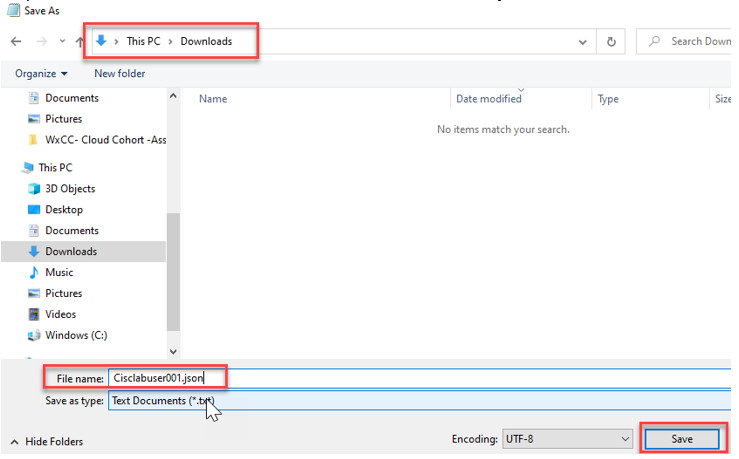
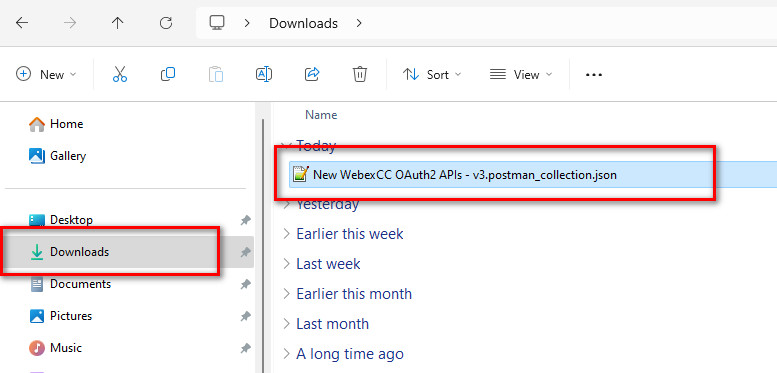
yabondar: 2024-02-24 10:51:39

diff --git a/_pages/Advanced.md b/_pages/Advanced.md
@@ -385,7 +385,7 @@ And verify that you can see this new address book created like this example:
 
 ![API43](https://webexcc-sa.github.io/partner-summit/assets/images/API/API43.jpg)
 
-Congratulations! You have run a simple API towards Webex CC and created an address book without logging into the portal.
+**Congratulations! You have run a simple API towards Webex CC and created an address book without logging into the portal.**
 
 **Step 10.** Switch back to your Postman browser tab. Before sending the API request to create an address book, we need to create 3 environment variables: **org_id, addressBookId** and **datacenter**. This is a required parameter to create an address book. On Postman, select **Environments** and then **Create Environment**.
 
@@ -465,7 +465,7 @@ You see the new collection and API request added.
 ![API60](https://webexcc-sa.github.io/partner-summit/assets/images/API/API60.jpg)
 
 
-**Step 23.** You can also list a specific address book. Use the same GET API and just add he address book id that you have previously copied in notepad and click Send.
+**Step 23.** You can also list a specific address book. Use the same GET API and just add the address book id that you have previously copied into notepad and click Send.
 
 for example: https://api.wxcc-{{datacenter}}.cisco.com/organization/{{orgid}}/address-book/8fd95b96-556d-49be-94b8-fabc1237054c
 
@@ -482,13 +482,64 @@ You see only the address book with that id.
 You see 204 No Content, which indicates that the address book was deleted but there is no content in the response body, which is expected.
 
 ![API64](https://webexcc-sa.github.io/partner-summit/assets/images/API/API64.jpg)
+
 **Step 25.** Execute the GET API for the specific address book, one more time. You see 404 Not Found since the address book no longer exist.
 
 ![API65](https://webexcc-sa.github.io/partner-summit/assets/images/API/API65.jpg)
 
 
+## Lab 4 – Tokens and Collections Importing
 
-### Task 3. Postman - WxCC Tasks Management vias APIs (Optional)
+### Objectives
+
+Access tokens tend to expire after 8-12 hours, while refresh tokens tend to expire in days. This lab demonstrates how to how to configure refresh token in your postman. Also Cisco provides you with preconfigured APIs that can be imported from the WxCC Developers Portal. 
+
+
+### Task 1. Import Collection APIs from Cisco Documentation
+
+You can import APIs collection from another Postman application or from any other exported file.
+
+Cisco TAC has created a document explaining WxCC API functionality and where you can download a set of APIs collection and then import it in your postman section.
+
+**Step 1.** Open Chrome web browser and navigate to this document:
+
+[https://www.cisco.com/c/en/us/support/docs/contact-center/webex-contact-center/218418-](https://www.cisco.com/c/en/us/support/docs/contact-center/webex-contact-center/218418-configure-webex-contact-center-apis-with.html) [configure-webex-contact-center-apis-with.html](https://www.cisco.com/c/en/us/support/docs/contact-center/webex-contact-center/218418-configure-webex-contact-center-apis-with.html)
+
+![API90](https://webexcc-sa.github.io/partner-summit/assets/images/API/API90.jpg)
+
+**Step 2.** Scroll down to step 5 in the document and click on the Sample Postman APIs link.
+![API91](https://webexcc-sa.github.io/partner-summit/assets/images/API/API91.jpg)
+
+**Step 3.** On the new GitHub window, select New WebexCC OAuth2 APIs…
+![API92](https://webexcc-sa.github.io/partner-summit/assets/images/API/API92.jpg)
+
+**Step 4.** Select the icon to copy the API samples and past it to a notepad text (CTRL -V).
+![API93](https://webexcc-sa.github.io/partner-summit/assets/images/API/API93.jpg)
+
+![API94](https://webexcc-sa.github.io/partner-summit/assets/images/API/API94.jpg)
+
+**Step 5.** Save the file in the Downloads folder. By Default the name of the file is **New WebexCC OAuth2 APIs - v3.postman_collection.json**
+![API95](https://webexcc-sa.github.io/partner-summit/assets/images/API/API95.jpg)
+
+**Step 6.** On Postman, select Import.
+![API96](https://webexcc-sa.github.io/partner-summit/assets/images/API/API96.jpg)
+
+**Step 7.** On the import window, select files from the Drop section.
+![API97](https://webexcc-sa.github.io/partner-summit/assets/images/API/API97.jpg)
+
+**Step 8.** Navigate to the Downloads folder and click Open.
+![API98](https://webexcc-sa.github.io/partner-summit/assets/images/API/API98.jpg)
+
+**Step 9.** You will see a new collection created with all WxCC APIs.
+![API99](https://webexcc-sa.github.io/partner-summit/assets/images/API/API99.jpg)
+
+
+### Task 2. Getting Started with OAuth2 & Postman
+
+ Step 1. In Postman, in your Workspace, click on your new uploaded collection that you imported in previous Task. 
+ ![API99](https://webexcc-sa.github.io/partner-summit/assets/images/API/API99.jpg)
+# LAB 5 - Tasks, Queues, Activities and Search API (Optional)
+### Task 1. Postman - WxCC Tasks Management vias APIs
 
 The Task resource represents a request or demand for work from agents. Concretely, a **telephony** Task is an incoming call. For chat, a Task is a chat session. For email, a Task is an email chain. This API returns a list of Tasks (open or closed) within a date range. The data range is provided in epoch time format.
 
@@ -535,7 +586,7 @@ Since the token was added in previous steps, you will see the token already ther
 ![API73](https://webexcc-sa.github.io/partner-summit/assets/images/API/API73.jpg)
 
 
-### Task 4. Postman - WxCC Queue Statistics (Optional)
+### Task 2. Postman - WxCC Queue Statistics (Optional)
 
 The Queue resource is the waiting line which holds Tasks from the time they are created, to the time they are either assigned to an Agent or abandoned by the customer. A Queue is tied to a certain channel type e.g., email, chat, or telephony, and will be summarized by number and time statistics for how Tasks pass through. Queue statistics show only for 24 hours and use the epoch time format.
 
@@ -589,7 +640,7 @@ Since the token was added in previous steps, you will see the token already exis
 **Step 5.** Save this API in the WxCC APIs collection. Select Save As, then add the name of the request (List Queues statistics) and click save.
 ![API81](https://webexcc-sa.github.io/partner-summit/assets/images/API/API81.jpg)
 
-### Task 5. Postman - WxCC Agent Activities
+### Task 3. Postman - WxCC Agent Activities
 
 
 The Agent activities API allows you to retrieve agent activities. Sorted by start time ascending. The API is **/v1/agents/activities.**
@@ -641,51 +692,7 @@ Since the token was added in previous steps, you will see the token already ther
 
 ![API89](https://webexcc-sa.github.io/partner-summit/assets/images/API/API89.jpg)
 
-
-
-## Lab 4 – Import WxCC APIs to Postman
-
-### Objectives
-
-This lab demonstrates importing existing APIs from the WxCC Developers Portal or ones created by a third party or Cisco TAC.
-
-### Task 1. Import Collection APIs from Cisco Documentation
-
-You can import APIs collection from another Postman application or from any other exported file.
-
-Cisco TAC has created a document explaining WxCC API functionality and where you can download a set of APIs collection and then import it in your postman section.
-
-**Step 1.** Open Chrome web browser and navigate to this document:
-
-[https://www.cisco.com/c/en/us/support/docs/contact-center/webex-contact-center/218418-](https://www.cisco.com/c/en/us/support/docs/contact-center/webex-contact-center/218418-configure-webex-contact-center-apis-with.html) [configure-webex-contact-center-apis-with.html](https://www.cisco.com/c/en/us/support/docs/contact-center/webex-contact-center/218418-configure-webex-contact-center-apis-with.html)
-
-![API90](https://webexcc-sa.github.io/partner-summit/assets/images/API/API90.jpg)
-
-**Step 2.** Scroll down to step 5 in the document and click on the Sample Postman APIs link.
-![API91](https://webexcc-sa.github.io/partner-summit/assets/images/API/API91.jpg)
-
-**Step 3.** On the new GitHub window, select New WebexCC OAuth2 APIs…
-![API92](https://webexcc-sa.github.io/partner-summit/assets/images/API/API92.jpg)
-
-**Step 4.** Select the icon to copy the API samples and past it to a notepad text (CTRL -V).
-![API93](https://webexcc-sa.github.io/partner-summit/assets/images/API/API93.jpg)
-
-![API94](https://webexcc-sa.github.io/partner-summit/assets/images/API/API94.jpg)
-
-**Step 5.** Save the file in the Downloads folder as Ciscolabuser001.json
-![API95](https://webexcc-sa.github.io/partner-summit/assets/images/API/API95.jpg)
-
-**Step 6.** On Postman, select Import.
-![API96](https://webexcc-sa.github.io/partner-summit/assets/images/API/API96.jpg)
-
-**Step 7.** On the import window, select files from the Drop section.
-![API97](https://webexcc-sa.github.io/partner-summit/assets/images/API/API97.jpg)
-
-**Step 8.** Navigate to the Downloads folder and click Open.
-![API98](https://webexcc-sa.github.io/partner-summit/assets/images/API/API98.jpg)
-
-**Step 9.** You will see a new collection created with all WxCC APIs.
-![API99](https://webexcc-sa.github.io/partner-summit/assets/images/API/API99.jpg)
+### Task 3. Postman - Working with Search API
 
 
 **Congratulations!! You have finished this lab.**
